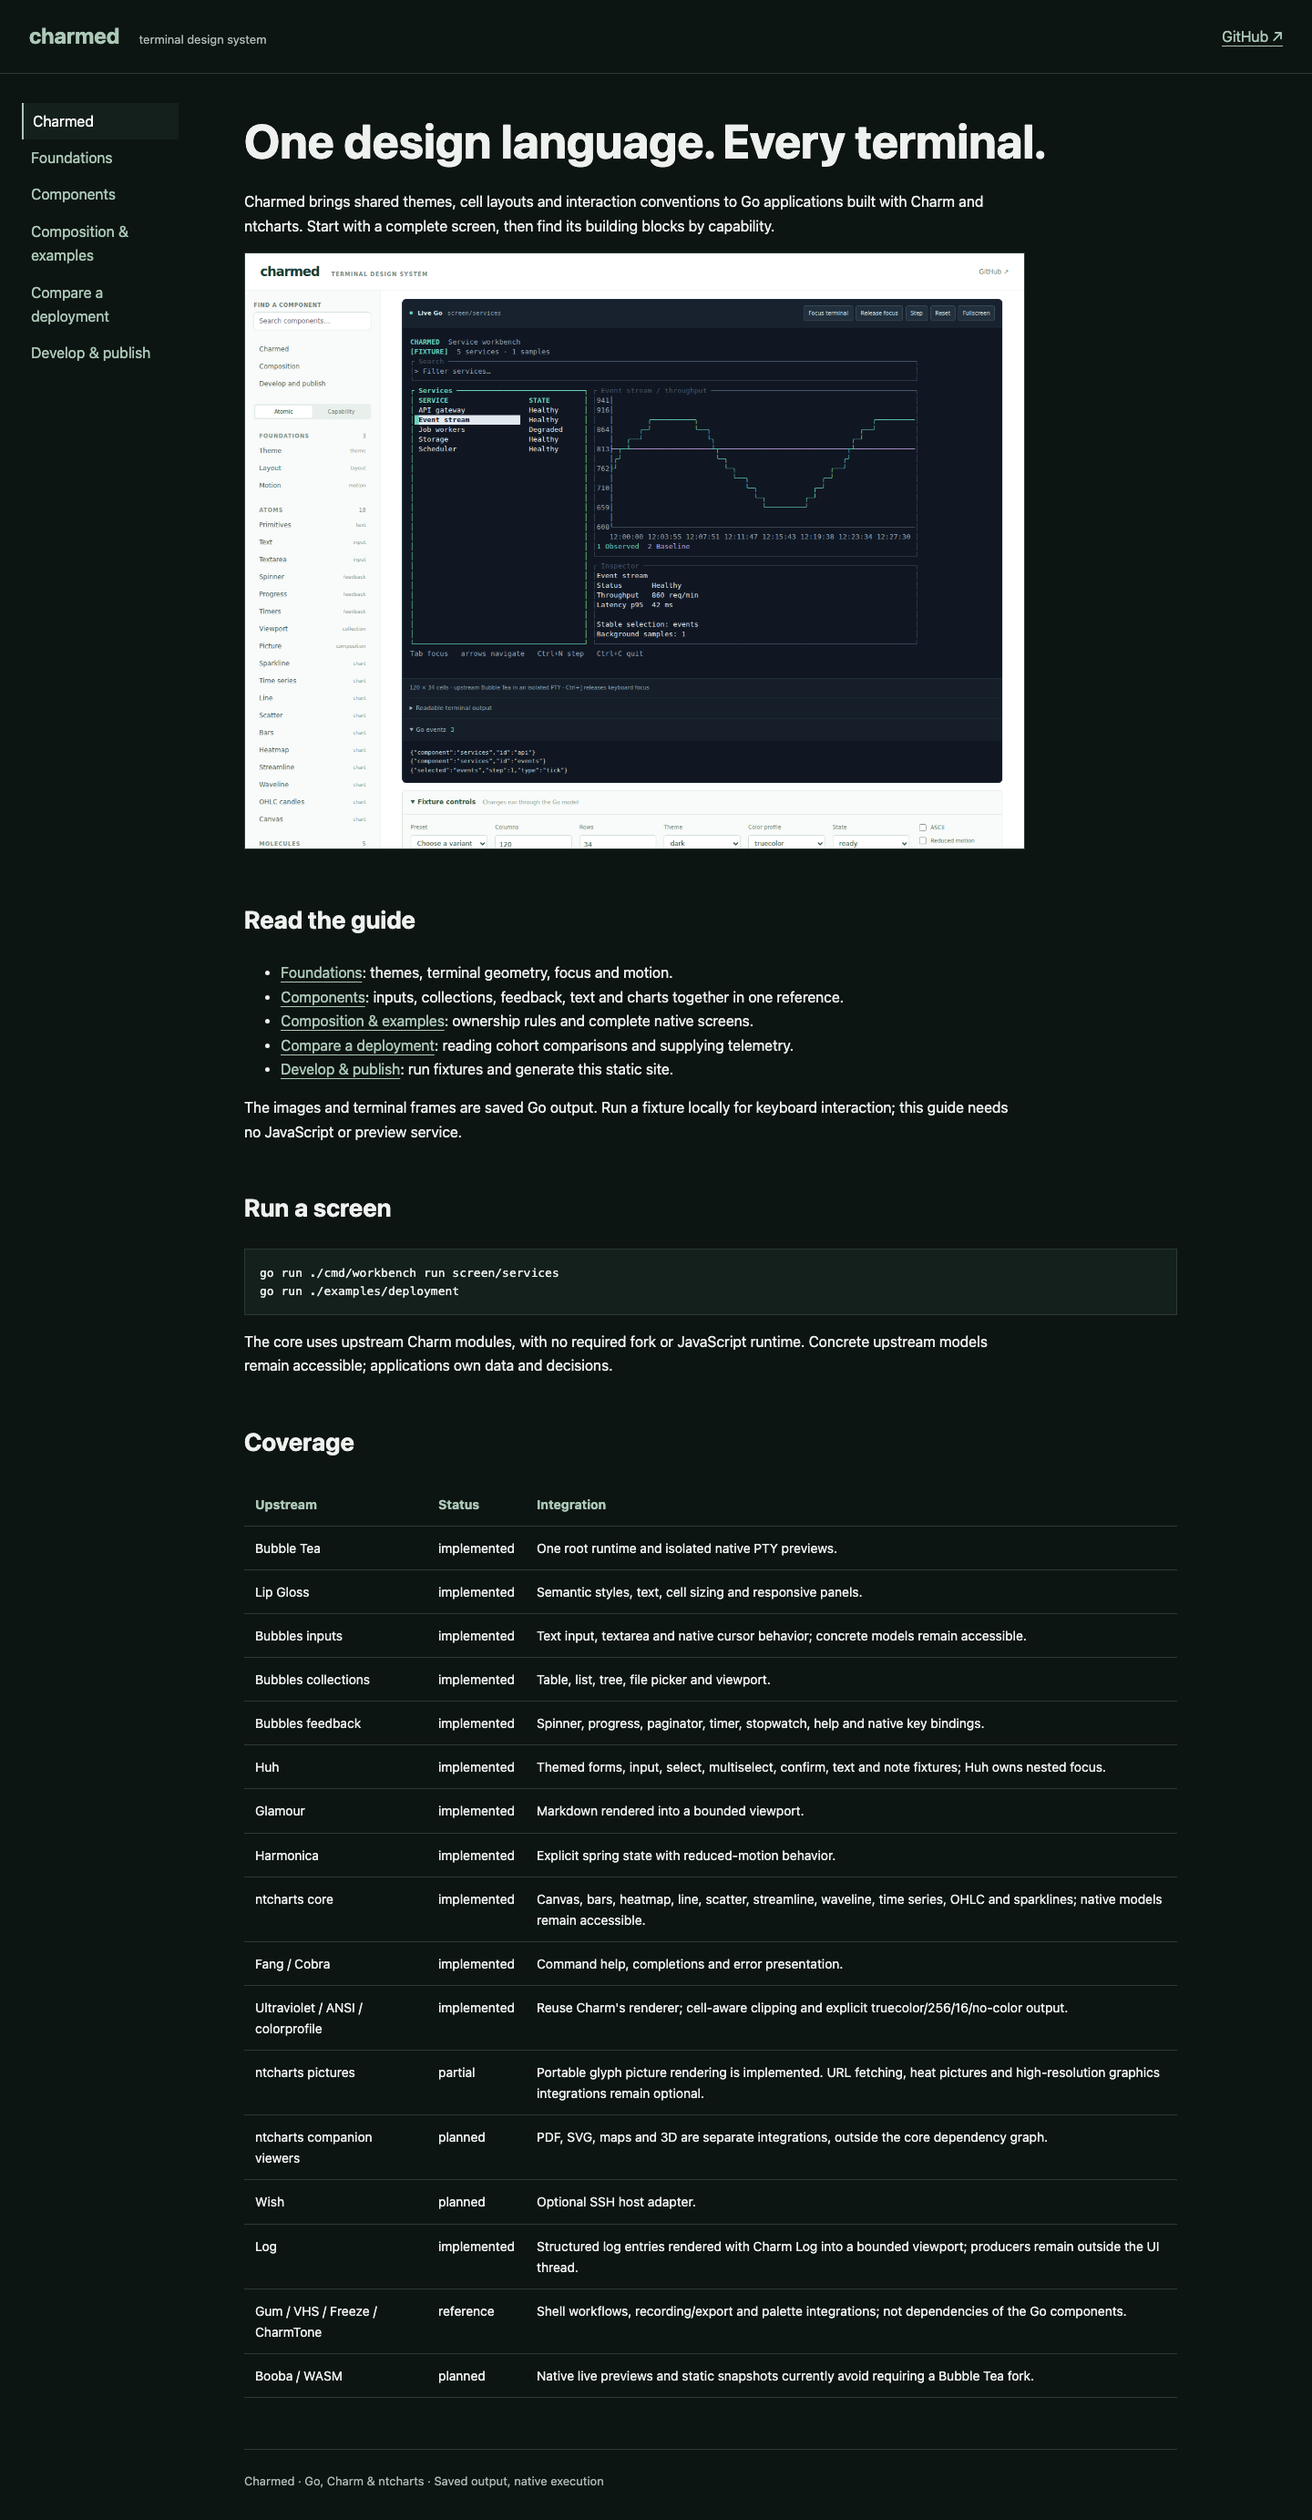
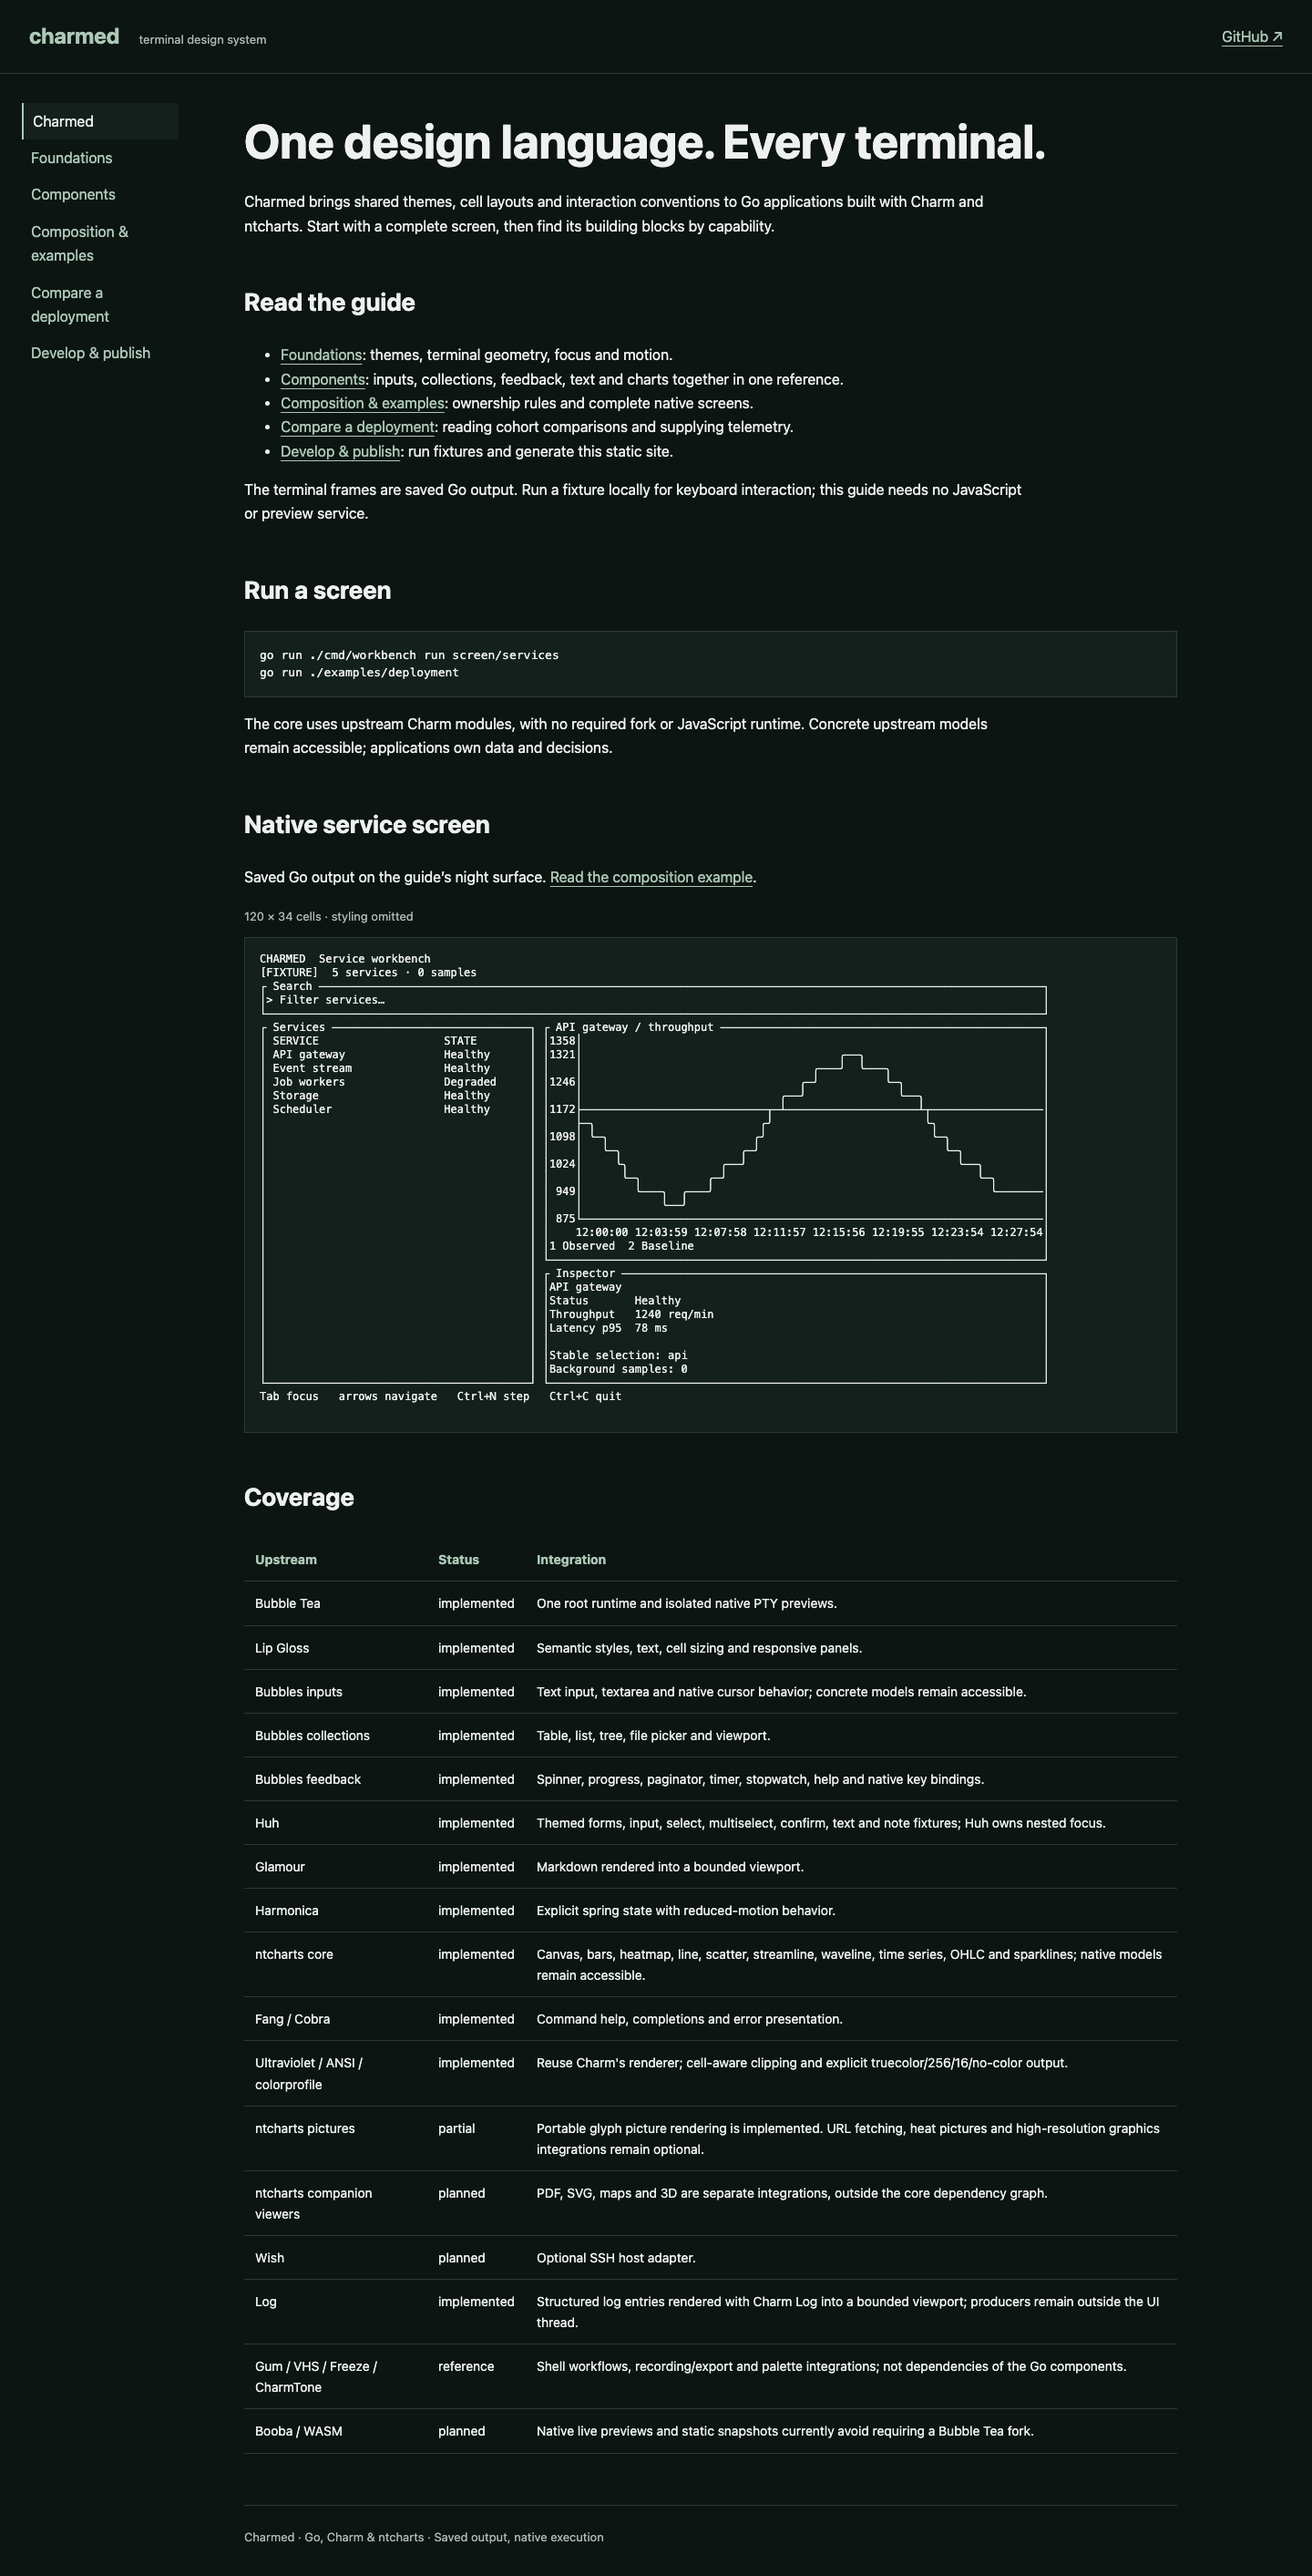
fix(docs): keep guide surfaces in night mode
Detected-By: user

diff --git a/workbench/site/style.css b/workbench/site/style.css
@@ -1,5 +1,5 @@
 :root{color-scheme:dark;--bg:#0d1513;--text:#eef1ee;--muted:#afbbb4;--accent:#acc8b7;--line:#2b3a34;--surface:#14201c;font-family:ui-sans-serif,-apple-system,BlinkMacSystemFont,"Segoe UI",sans-serif;background:var(--bg);color:var(--text);line-height:1.65}
-*{box-sizing:border-box}body{margin:0}a{color:var(--accent);text-underline-offset:4px}a:hover{color:white}a:focus-visible,summary:focus-visible,pre:focus-visible,table:focus-visible{outline:2px solid var(--accent);outline-offset:4px}header{display:flex;justify-content:space-between;align-items:center;border-bottom:1px solid var(--line);padding:20px 32px;gap:24px}.brand{font-size:24px;font-weight:700;text-decoration:none}.brand span{font-size:13px;font-weight:400;color:var(--muted);margin-left:16px}.shell{display:grid;grid-template-columns:220px minmax(0,1fr);max-width:1440px;margin:auto}nav{padding:32px 24px;align-self:start;position:sticky;top:0;max-height:100vh;overflow:auto}nav a{display:block;padding:7px 10px;text-decoration:none}nav [aria-current]{background:var(--surface);border-left:2px solid var(--accent);color:white}nav p,.eyebrow,figcaption{color:var(--muted);font-size:13px}nav p{margin:24px 10px 8px}main{min-width:0;padding:32px 48px;max-width:1120px}h1{font-size:clamp(32px,5vw,52px);line-height:1.15;margin:12px 0 24px}h2{margin-top:48px;font-size:27px}h3{font-size:22px;margin-top:0}p{max-width:85ch}img{max-width:100%;height:auto;border:1px solid var(--line)}pre{overflow:auto;padding:16px;background:var(--surface);border:1px solid var(--line);font:13px/1.5 ui-monospace,SFMono-Regular,Consolas,monospace;tab-size:4}code{font-family:ui-monospace,SFMono-Regular,Consolas,monospace;font-size:1em}pre code{font-size:inherit}.terminal{font-size:12px;line-height:1.25;white-space:pre}figure{margin:20px 0}figcaption{margin-bottom:6px}details{margin:12px 0;border:1px solid var(--line);padding:12px 16px}summary{cursor:pointer;color:var(--accent)}.component{padding:24px 0 32px;border-bottom:1px solid var(--line);scroll-margin-top:16px}.eyebrow{text-transform:uppercase;letter-spacing:.08em;margin-bottom:6px}.index{display:flex;flex-wrap:wrap;gap:8px 24px;padding:0;list-style:none}.dependency{display:inline-block;margin-right:8px}table{border-collapse:collapse;width:100%;font-size:14px}th,td{text-align:left;vertical-align:top;padding:12px;border-bottom:1px solid var(--line)}th{color:var(--accent)}.table-wrap{overflow:auto}footer{margin-top:56px;padding-top:24px;border-top:1px solid var(--line);font-size:13px;color:var(--muted)}.skip{position:absolute;left:16px;top:-80px;padding:12px;background:var(--surface)}.skip:focus{top:8px}
+*{box-sizing:border-box}html,body{background:var(--bg);color:var(--text)}body{margin:0}::selection{background:var(--accent);color:var(--bg)}a{color:var(--accent);text-underline-offset:4px}a:hover{color:var(--text)}a:focus-visible,summary:focus-visible,pre:focus-visible,table:focus-visible{outline:2px solid var(--accent);outline-offset:4px}header{display:flex;justify-content:space-between;align-items:center;border-bottom:1px solid var(--line);padding:20px 32px;gap:24px}.brand{font-size:24px;font-weight:700;text-decoration:none}.brand span{font-size:13px;font-weight:400;color:var(--muted);margin-left:16px}.shell{display:grid;grid-template-columns:220px minmax(0,1fr);max-width:1440px;margin:auto}nav{padding:32px 24px;align-self:start;position:sticky;top:0;max-height:100vh;overflow:auto}nav a{display:block;padding:7px 10px;text-decoration:none}nav [aria-current]{background:var(--surface);border-left:2px solid var(--accent);color:var(--text)}nav p,.eyebrow,figcaption{color:var(--muted);font-size:13px}nav p{margin:24px 10px 8px}main{min-width:0;padding:32px 48px;max-width:1120px}h1{font-size:clamp(32px,5vw,52px);line-height:1.15;margin:12px 0 24px}h2{margin-top:48px;font-size:27px}h3{font-size:22px;margin-top:0}p{max-width:85ch}img{max-width:100%;height:auto;border:1px solid var(--line)}pre{overflow:auto;padding:16px;background:var(--surface);border:1px solid var(--line);font:13px/1.5 ui-monospace,SFMono-Regular,Consolas,monospace;tab-size:4}code{font-family:ui-monospace,SFMono-Regular,Consolas,monospace;font-size:1em}pre code{font-size:inherit}.terminal{font-size:12px;line-height:1.25;white-space:pre}figure{margin:20px 0}figcaption{margin-bottom:6px}details{background:var(--surface);margin:12px 0;border:1px solid var(--line);padding:12px 16px}summary{cursor:pointer;color:var(--accent)}.component{padding:24px 0 32px;border-bottom:1px solid var(--line);scroll-margin-top:16px}.eyebrow{text-transform:uppercase;letter-spacing:.08em;margin-bottom:6px}.index{display:flex;flex-wrap:wrap;gap:8px 24px;padding:0;list-style:none}.dependency{display:inline-block;margin-right:8px}table{border-collapse:collapse;width:100%;font-size:14px}th,td{text-align:left;vertical-align:top;padding:12px;border-bottom:1px solid var(--line)}th{color:var(--accent)}.table-wrap{overflow:auto}footer{margin-top:56px;padding-top:24px;border-top:1px solid var(--line);font-size:13px;color:var(--muted)}.skip{position:absolute;left:16px;top:-80px;padding:12px;background:var(--surface)}.skip:focus{top:8px}
 @media(max-width:760px){header{padding:16px 20px}.brand span{display:none}.shell{display:block}nav{position:static;display:flex;flex-wrap:wrap;padding:12px;gap:2px;border-bottom:1px solid var(--line);max-height:none}nav p{display:none}nav a{padding:6px 8px;font-size:14px}main{padding:24px 20px}h2{margin-top:32px}table{display:block;overflow:auto}}
 
 .eyebrow{font-size:14px}

diff --git a/workbench/site/page.html b/workbench/site/page.html
@@ -1,6 +1,6 @@
 <!doctype html>
 <html lang="en">
-<head><meta charset="utf-8"><meta name="viewport" content="width=device-width, initial-scale=1"><title>{{.Page.Title}} · Charmed</title><link rel="stylesheet" href="style.css"></head>
+<head><meta charset="utf-8"><meta name="color-scheme" content="dark"><meta name="theme-color" content="#0d1513"><meta name="viewport" content="width=device-width, initial-scale=1"><title>{{.Page.Title}} · Charmed</title><link rel="stylesheet" href="style.css"></head>
 <body>
 <a class="skip" href="#main">Skip to content</a>
 <header><a class="brand" href="index.html">charmed <span>terminal design system</span></a><a href="https://github.com/lanej/charmed">GitHub ↗</a></header>
@@ -10,6 +10,7 @@
 </nav>
 <main id="main">
 {{.Page.Content}}
+{{with .Page.Preview}}<section aria-label="Native service screen"><h2>Native service screen</h2><p>Saved Go output on the guide’s night surface. <a href="examples.html#screen/services">Read the composition example</a>.</p><figure><figcaption>{{(index .Snapshots 0).Config.Columns}} × {{(index .Snapshots 0).Config.Rows}} cells · styling omitted</figcaption><pre tabindex="0" class="terminal">{{plain (index .Snapshots 0).Frame}}</pre></figure></section>{{end}}
 {{range .Page.Groups}}
 <section id="family-{{.Name}}"><h2>{{.Name}}</h2>
 <ul class="index">{{range .Entries}}<li><a href="#{{.ID}}">{{name .Title}}</a></li>{{end}}</ul>

diff --git a/workbench/site.go b/workbench/site.go
@@ -23,6 +23,7 @@ type guidePage struct {
 	Content     template.HTML
 	Groups      []guideGroup
 	Coverage    []Coverage
+	Preview     *ManifestEntry
 }
 type guideGroup struct {
 	Name    string
@@ -73,6 +74,12 @@ func writeSite(out, root string, entries []ManifestEntry) error {
 		page.Content = template.HTML(rendered)
 		if page.File == "index.html" {
 			page.Coverage = CoverageInventory()
+			for i := range entries {
+				if entries[i].ID == "screen/services" {
+					page.Preview = &entries[i]
+					break
+				}
+			}
 		}
 		families := []string{}
 		for _, entry := range entries {

diff --git a/workbench/generate.go b/workbench/generate.go
@@ -46,7 +46,6 @@ func Generate(out string) error {
 			change func(*story.Config)
 		}{
 			{"Default", func(*story.Config) {}},
-			{"Light", func(c *story.Config) { c.Theme = theme.Light }},
 			{"Narrow", func(c *story.Config) { c.Columns = 40; c.Rows = 16 }},
 			{"Monochrome", func(c *story.Config) {
 				c.Theme = theme.Mono

diff --git a/DESIGN.md b/DESIGN.md
@@ -6,7 +6,7 @@ Help Go developers choose terminal components, understand composition, and run n
 
 ## Principles and tradeoffs
 
-Use a compact guide navigation and readable prose. Keep examples beside their name, description and native command. Preserve complete terminal cell geometry with horizontal scrolling inside frames; the document itself must fit mobile widths. Saved text frames omit ANSI styling, so screenshots illustrate color and native commands provide the full behavior.
+Use a compact guide navigation and readable prose. Keep examples beside their name, description and native command. Preserve complete terminal cell geometry with horizontal scrolling inside frames; the document itself must fit mobile widths. Saved text frames omit ANSI styling and inherit the guide’s night surfaces; native commands provide color and full behavior.
 
 ## Visual system and ownership
 
@@ -28,4 +28,8 @@ Navigation and content must fit desktop and mobile viewports. Terminal frames an
 
 ## Evidence and unresolved decisions
 
-The user requested removal of interactive documentation and consolidation of per-component pages. Six guide pages and capability grouping implement that direction; they are proposed organization, without recorded user visual approval. Existing screenshots in `docs/assets/` illustrate native screens. Live deployment verification requires publishing the resulting artifact.
+The user requested removal of interactive documentation and consolidation of per-component pages. Six guide pages and capability grouping implement that direction; they are proposed organization, without recorded user visual approval. The user requested consistent night mode across the guide. Embedded examples use saved native text on the shared night palette; historical browser screenshots are not embedded. Live deployment verification requires publishing the resulting artifact.
+
+### GUIDE-003
+
+Night mode is fixed across page chrome, prose, code, disclosures and saved output, independently of the operating system appearance. Embedded screenshots must not introduce light browser chrome or a different surface palette. Viewrule checks dark color-scheme and surface colors; visual review checks the examples. Native CLI theme options remain available independently.

diff --git a/docs/examples.md b/docs/examples.md
@@ -2,8 +2,6 @@
 
 A complete screen owns one Go model and coordinates its child widgets. The service workbench links an input, table, time-series chart and details viewport. The deployment example coordinates host distributions, histories and inspection; [read its telemetry contract and interpretation](deployment.html).
 
-![Deployment comparison](assets/deployment.png)
-
 ## Ownership rules
 
 | Owner | Responsibility |
@@ -19,6 +17,6 @@ In the native service screen, Tab changes focus, arrows select rows and Ctrl+N a
 
 In the native deployment screen, arrows choose hosts and windows, brackets choose a response class, 1/2/3 change displayed spread, and b switches between stacked and disconnected bands. These are terminal controls; the saved frames below do not execute them.
 
-![Disconnected band presentation](assets/deployment-bands.png)
+The deployment fixture’s saved variants include the disconnected band presentation, rendered on the same night surface as the default snapshot.
 
 ## Screen fixtures

diff --git a/docs/index.md b/docs/index.md
@@ -2,8 +2,6 @@
 
 Charmed brings shared themes, cell layouts and interaction conventions to Go applications built with Charm and ntcharts. Start with a complete screen, then find its building blocks by capability.
 
-![Service workbench with a linked table, chart and inspector](assets/workbench.png)
-
 ## Read the guide
 
 - [Foundations](foundations.html): themes, terminal geometry, focus and motion.
@@ -12,7 +10,7 @@ Charmed brings shared themes, cell layouts and interaction conventions to Go app
 - [Compare a deployment](deployment.html): reading cohort comparisons and supplying telemetry.
 - [Develop & publish](development.html): run fixtures and generate this static site.
 
-The images and terminal frames are saved Go output. Run a fixture locally for keyboard interaction; this guide needs no JavaScript or preview service.
+The terminal frames are saved Go output. Run a fixture locally for keyboard interaction; this guide needs no JavaScript or preview service.
 
 ## Run a screen
 

diff --git a/docs/foundations.md b/docs/foundations.md
@@ -2,4 +2,4 @@
 
 Themes, cell geometry, focus and motion are shared across every component. Choose semantic roles rather than embedding color decisions in application widgets. Layout parents allocate rectangles in terminal columns and rows; focus scopes route keys to the active child.
 
-The fixtures below show the default native frame. Saved variants retain light, narrow and monochrome configurations; these text exports omit ANSI styling. Run with `--theme light`, `--columns 40` or `--ascii --profile none` to inspect those presentations in a terminal.
+The fixtures below show the default native frame. Saved variants retain narrow and monochrome configurations on the same night surface; these text exports omit ANSI styling. Run with `--theme light`, `--columns 40` or `--ascii --profile none` to inspect those presentations in a terminal.

diff --git a/README.md b/README.md
@@ -4,7 +4,7 @@ A Go design system for Charm and ntcharts, with a static reference guide and nat
 
 Components share semantic themes, terminal-cell geometry, focus conventions and state handling. The guide groups related components, saved Go output, source and composition examples by capability.
 
-![A live Charmed service workbench with a linked table, chart and inspector](docs/assets/workbench.png)
+![Charmed static guide in night mode](.github/pr-assets/static-guide.png)
 
 ## Run it
 
